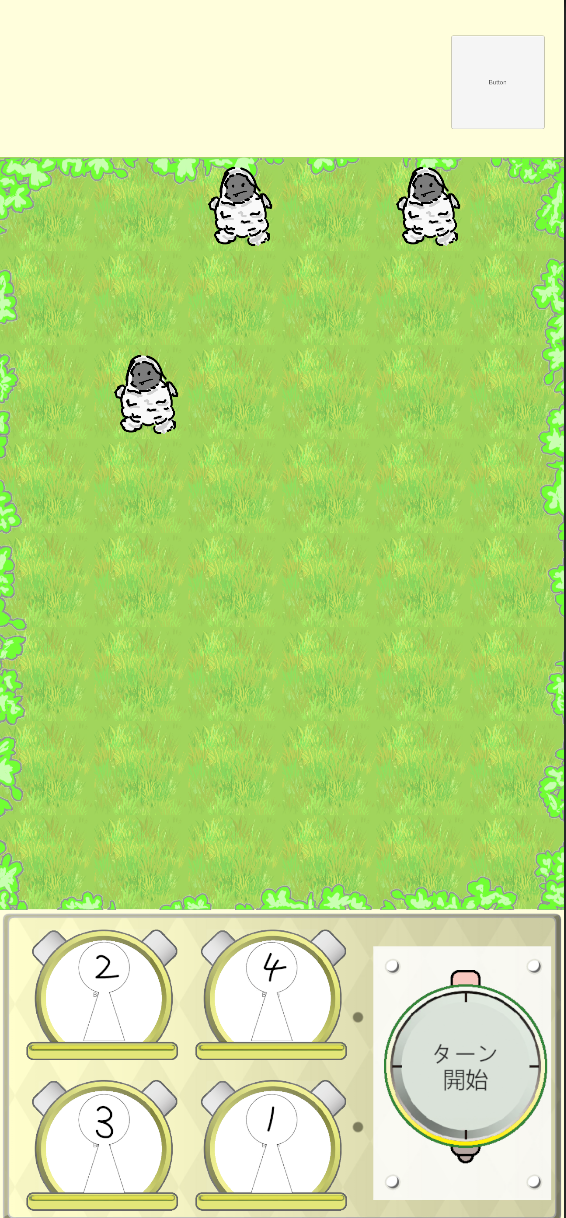
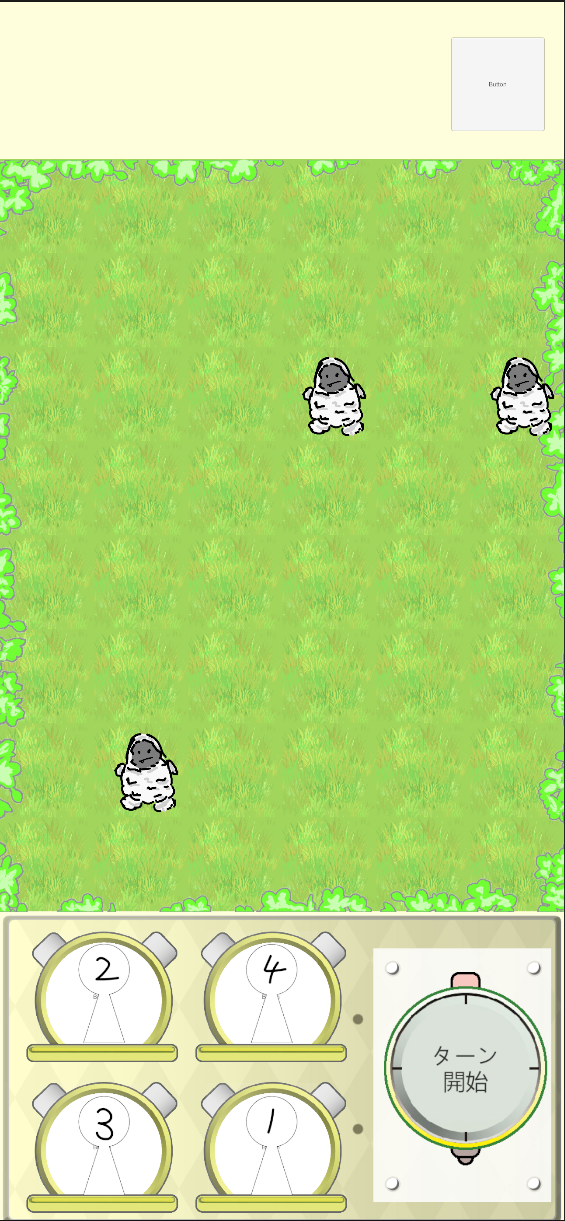
RePortfolio

diff --git a/index.html b/index.html
@@ -85,17 +85,70 @@
 
             <div class="contents">
                 <h2 class="contents_innner" id="Work">WORKING</h2>
+                <div class="exp-flex">
+
+                <span class="working-ex">Unityを使ってゲームを制作していますが、完成しているものがないので、<br>制作途中のものの戦闘画面を紹介します。<br>掲載している画像内のものはコードが書かれており、実際に動くものの一部を<br>画像化したものです。</span>
+                </div>
                 <div class="flex-contents">
-                    <img src="img/wiregame.png" alt="">
-                    <div class="flex-exp">
-                        <h3 class="gametitle">
-                            NtimerBattle
-                        </h3>
-                        <span class="explain">
-                            <!--ゲームの説明-->
-                            ・画面上部に表示されているタイマーの<br>カウントが０になるまでに行動を入力します。<br>・タイマーのカウントが０になると入力していた動作を実行します。<br>─このような仕様で相手と戦うゲームを作ろうと思っています。
-                        </span>
-                    </div>
+                    <ul>
+                        <li>
+                            <img src="img/game1.png" alt="">
+                            <div class="flex-exp">
+                                <h3 class="gametitle">
+                                    戦闘画面
+                                </h3>
+                                <span class="explain">
+                                    <!--ゲームの説明-->
+                                    ・左の画像が今制作中のゲームの戦闘画面です。<br>・フィールドの緑の箇所は横6マス縦8マスのグリッドになっており、表示されている仮のキャラクターは盤面に配置されている敵です。
+                                </span>
+                            </div>
+                        </li>
+                        <li>
+                            <img src="img/game2.png" alt="">
+                            <div class="flex-exp">
+                                <h3 class="gametitle">
+                                    キャラ出撃選択画面
+                                </h3>
+                                <span class="explain">
+                                    <!--ゲームの説明-->
+                                    ・自分のパーティーのキャラクターをフィールドに配置する時は下の仮のキャラクターボタンを押すことで右の画像のような行動選択画面が開かれます。<br>・ここで表示されているボタン四種類は左から目の前の敵を殴る「通常攻撃」、一切動かないが全ての敵を自分に向けさせる「惹きつけ」、残りの二つはダンジョンに入る前にあらかじめ組み合わせてセットしたスキルを使う行動をするボタンです。
+                                </span>
+                            </div></li>
+                        <li>
+                            <img src="img/game3.png" alt="">
+                            <div class="flex-exp">
+                                <h3 class="gametitle">
+                                    キャラ場所選択画面
+                                </h3>
+                                <span class="explain">
+                                    <!--ゲームの説明-->
+                                    ・自分のパーティーのキャラクターがする行動を選択した後に、配置する場所を選択すると左のような画面になり、通常攻撃やスキルを出す方向を選択します。
+                                </span>
+                            </div></li>
+                        <li>
+                            <img src="img/game4.png" alt="">
+                            <div class="flex-exp">
+                                <h3 class="gametitle">
+                                    キャラ配置完了画面
+                                </h3>
+                                <span class="explain">
+                                    <!--ゲームの説明-->
+                                    ・右の画面は自分のパーティーのキャラクターのうち置きたいキャラクターを全て配置した状態です。<br>・この状態でターン開始ボタンを押すことでターンが開始し、あらかじめ配置したキャラが配置した通りに動き、その後敵が移動や攻撃、特技を使用したりします。<br>今回は敵に隣り合っているキャラクター(2、3、4)が隣り合っている敵に攻撃し、敵と離れているキャラクター(1)が全ての敵を惹きつける「惹きつけ」を行っています。
+                                </span>
+                            </div></li>
+                            <li>
+                                <img src="img/game5.png" alt="">
+                                <div class="flex-exp">
+                                    <h3 class="gametitle">
+                                        ターン終了・<br>次のターン準備画面
+                                    </h3>
+                                    <span class="explain">
+                                        <!--ゲームの説明-->
+                                        ・先ほどのターンで２体の敵は味方の攻撃で力尽き、残りの１体は「惹きつけ」を行なっている味方を攻撃するために１マス移動しました。<br>・通常攻撃を行なった味方キャラクターは先ほどの行動選択時に行動選択ボタンの右下にあったターン数はフィールドに残り続けるため、フィールドに残っています。<br>「惹きつけ」を行なっているキャラクターも同様に行動選択ボタンの右下にあったターン数はフィールドに留まります。
+                                    </span>
+                                </div></li>
+                    </ul>
+                    
 
                 </div>
 
@@ -108,6 +161,10 @@
             </div>
             <div class="contents">
                 <h2 class="contents_innner" id="Art">ART</h2>
+                <div class="exp-flex">
+
+                <span class="art-ex">高校3年の頃から描き始め、大学に入ってからは描く頻度は落ちていますが、<br>練習を続けてきて最近完成させた2次創作のイラストを掲載<br>しています。</span>
+                </div>
                 <ul>
                     <li>
                         <div class="illust-exp">

diff --git a/style/style.css b/style/style.css
@@ -333,6 +333,7 @@ section.Working {
 
 section.Working>.contents {
     padding: 0 2vw;
+    
 }
 
 section.Working h2 {
@@ -375,9 +376,43 @@ section.Working span {
 section.Working img {
     position: relative;
     z-index: 100;
-    width: 40vw;
+    width: 20vw;
 }
 
+section.Working ul {
+    display: flex;
+    flex-direction: column;
+    justify-content: space-between;
+    width: 100%;
+    margin: 0 100px;
+    gap: 30px;
+}
+
+
+section.Working li {
+    list-style: none;
+    display: flex;
+    justify-content: space-between;
+    gap: 40px;
+}
+
+section.Working .flex-exp {
+    justify-content: center;
+}
+
+section.Working .exp-flex {
+    display: flex;
+    justify-content: center;
+    padding: 60px 0px;
+}
+
+section.Working .working-ex{
+    text-align: center;
+}
+
+section.Working li:nth-child(2n){
+    flex-direction: row-reverse;
+}
 
 
 section.Art {
@@ -404,6 +439,18 @@ section.Art .contents_innner{
 section.Art .ArtSub {
     padding-bottom: 60px;
     font-weight: lighter;
+}
+
+
+section.Art .exp-flex {
+    display: flex;
+    justify-content: center;
+    padding: 60px 0px;
+    font-size: 1.5vw;
+}
+
+section.Art .art-ex{
+    text-align: center;
 }
 
 
